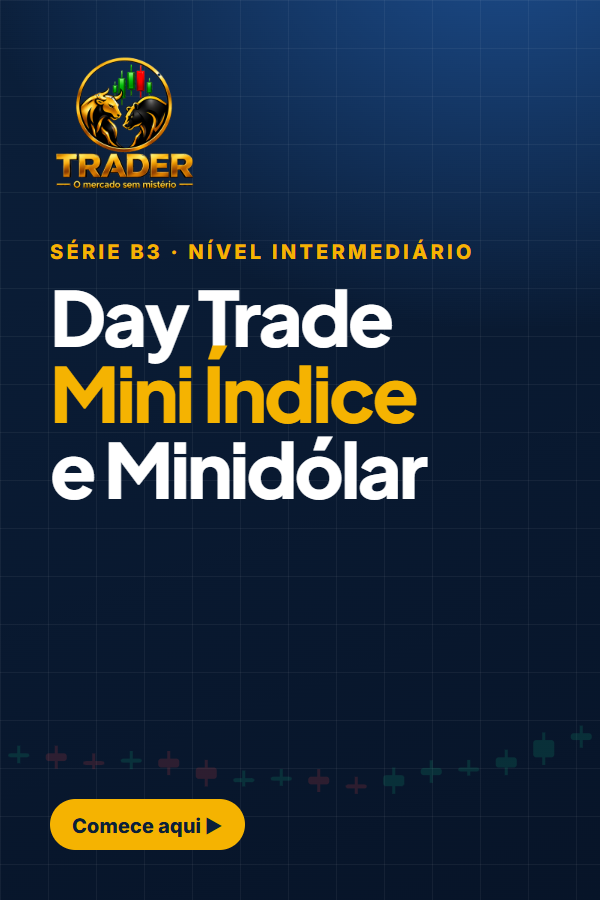
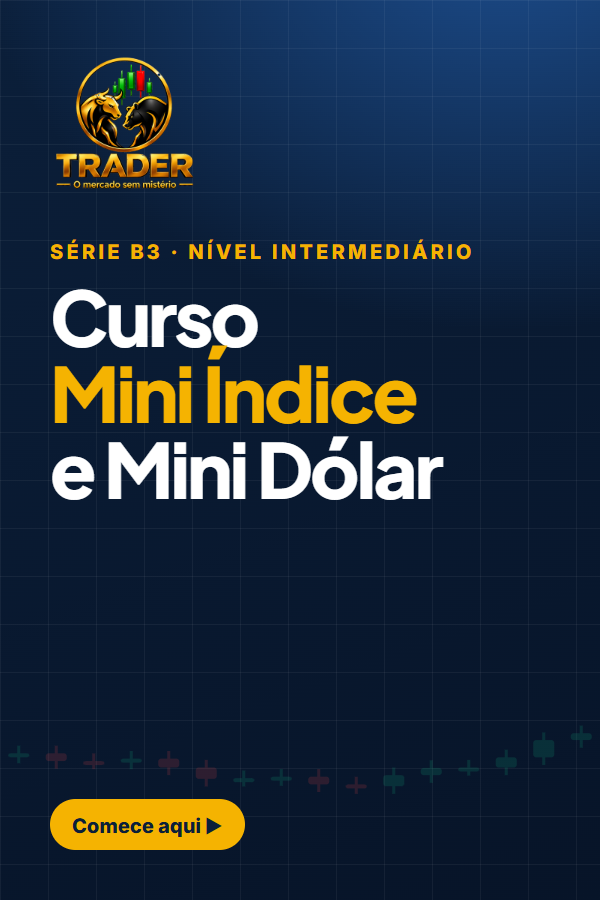
Mini Índice e Mini Dólar: página para a nova análise da Hotmart (sem link no site) e capas renomeadas

Changed region(s): [[0.09, 0.3111, 0.66, 0.4044], [0.42, 0.4667, 0.75, 0.56]]

diff --git a/curso-mini-indice-e-mini-dolar.html b/curso-mini-indice-e-mini-dolar.html
@@ -1,0 +1,196 @@
+<!doctype html>
+<html lang="pt-BR">
+<head>
+<meta charset="utf-8">
+<meta name="viewport" content="width=device-width, initial-scale=1">
+<title>Mini Índice e Mini Dólar | Curso educacional com simulador de treino</title>
+<meta name="description" content="Curso educacional sobre os contratos de mini índice e mini dólar da B3: como funcionam, margem, riscos, estratégias com stop e plano operacional. 56 aulas e simulador de treino.">
+<meta property="og:title" content="Mini Índice e Mini Dólar">
+<meta property="og:description" content="Curso educacional sobre os contratos de mini índice e mini dólar da B3: como funcionam, margem, riscos, estratégias com stop e plano operacional. 56 aulas e simulador de treino.">
+<meta property="og:image" content="https://mesquitaigorsaas.github.io/mercadosemmisterio/assets/img/produtos/day-trade-banner-1920x1080.png">
+<meta name="theme-color" content="#050e1f">
+<link rel="icon" href="assets/img/emblema-128.png">
+<link rel="preconnect" href="https://fonts.googleapis.com"><link rel="preconnect" href="https://fonts.gstatic.com" crossorigin>
+<link href="https://fonts.googleapis.com/css2?family=Plus+Jakarta+Sans:wght@600;700;800&family=Inter:wght@400;500;600;700;800&display=swap" rel="stylesheet">
+<link rel="stylesheet" href="assets/site.css?v=8">
+<!-- gerada por cursos-b3/publicacao/gerar-paginas-venda.js: edite lá e gere de novo -->
+<style>
+  .hero-curso { display: grid; grid-template-columns: 1.05fr 1fr; gap: 46px; align-items: center; }
+  @media (max-width: 960px) { .hero-curso { grid-template-columns: 1fr; } }
+  .tela-mock { position: relative; border-radius: 18px; padding: 10px; background: linear-gradient(160deg, #1b3460, #0b1730); border: 1px solid rgba(255,255,255,.12); box-shadow: 0 40px 90px rgba(0,0,0,.55), 0 0 0 1px rgba(245,179,1,.08); transform: perspective(1400px) rotateY(-7deg) rotateX(3deg); transition: transform .6s; }
+  .tela-mock:hover { transform: none; }
+  .tela-mock img { border-radius: 10px; width: 100%; height: auto; }
+  .tela-mock { margin-bottom: 26px; }
+  .tela-mock .pill { position: absolute; left: 50%; bottom: -22px; transform: translateX(-50%); width: max-content; max-width: calc(100% - 24px); text-align: center; color: #d1fae5; padding: 11px 18px; border-radius: 14px; background: #0b1f3a; border: 1px solid rgba(16,185,129,.4); font: 700 14px Inter; box-shadow: 0 16px 40px rgba(0,0,0,.4); }
+  .preco-hero { display: flex; align-items: baseline; gap: 14px; flex-wrap: wrap; margin: 6px 0 22px; }
+  .preco-hero s { color: var(--soft2); font-size: 20px; } .preco-hero b { font: 800 44px "Plus Jakarta Sans"; color: #fff; } .preco-hero span { color: var(--soft); }
+  .selos { display: flex; flex-wrap: wrap; gap: 8px 18px; margin-top: 22px; color: #cbd5e1; font: 600 14px Inter; }
+  .barra-num { display: grid; grid-template-columns: repeat(5, 1fr); gap: 1px; background: var(--line); border-radius: 18px; overflow: hidden; border: 1px solid var(--line); }
+  .barra-num div { background: var(--card); padding: 22px 14px; text-align: center; }
+  .barra-num b { display: block; font: 800 30px "Plus Jakarta Sans"; color: var(--gold); } .barra-num span { color: var(--soft); font-size: 14px; }
+  @media (max-width: 760px) { .barra-num { grid-template-columns: repeat(2, 1fr); } .barra-num div:last-child { grid-column: 1 / -1; } }
+  .dado { padding: 26px; } .dado b { display: block; font: 800 54px/1 "Plus Jakarta Sans"; color: var(--down); margin-bottom: 10px; } .dado p { margin: 0; color: #cbd5e1; } .dado small { display: block; color: var(--soft2); margin-top: 10px; font-size: 12.5px; }
+  .pilar { padding: 26px; } .pilar .ic { font-size: 30px; } .pilar h3 { font-size: 20px; margin: 10px 0 6px; } .pilar p { color: var(--soft); margin: 0; font-size: 15.5px; }
+  .nivel-bloco { margin-bottom: 26px; } .nivel-bloco > h3 { display: flex; align-items: center; gap: 10px; font-size: 22px; margin-bottom: 12px; }
+  .nivel-bloco > h3 i { width: 12px; height: 12px; border-radius: 50%; background: var(--c); }
+  details.mod { background: var(--card); border: 1px solid var(--line); border-radius: 14px; margin-bottom: 8px; }
+  details.mod summary { list-style: none; cursor: pointer; padding: 16px 18px; display: grid; grid-template-columns: 100px 1fr auto; gap: 12px; align-items: center; font: 700 16px Inter; }
+  details.mod summary::-webkit-details-marker { display: none; }
+  details.mod summary .n { white-space: nowrap; color: var(--gold); font: 800 13px Inter; letter-spacing: .1em; text-transform: uppercase; }
+  details.mod summary .q { color: var(--soft); font-size: 13.5px; font-weight: 600; }
+  details.mod[open] summary { border-bottom: 1px solid var(--line); }
+  details.mod ol { margin: 0; padding: 12px 18px 16px 18px; color: #cbd5e1; columns: 2; column-gap: 30px; } details.mod li { list-style: none; padding: 4px 0; break-inside: avoid; font-size: 15px; }
+  @media (max-width: 640px) { details.mod ol { columns: 1; } details.mod summary { grid-template-columns: 1fr auto; } details.mod summary .n { grid-column: 1 / -1; } }
+  .galeria { display: grid; grid-template-columns: repeat(3, 1fr); gap: 16px; }
+  .galeria figure { margin: 0; } .galeria img { border-radius: 14px; border: 1px solid var(--line); cursor: zoom-in; transition: transform .25s; } .galeria img:hover { transform: scale(1.02); }
+  .galeria figcaption { color: var(--soft); font-size: 14px; margin-top: 8px; }
+  @media (max-width: 860px) { .galeria { grid-template-columns: 1fr 1fr; } } @media (max-width: 560px) { .galeria { grid-template-columns: 1fr; } }
+  .lightbox { position: fixed; inset: 0; background: rgba(0,0,0,.9); display: none; place-items: center; z-index: 100; padding: 20px; cursor: zoom-out; } .lightbox.on { display: grid; } .lightbox img { max-height: 90vh; border-radius: 12px; }
+  .inclui { display: grid; grid-template-columns: repeat(2, 1fr); gap: 12px; } .inclui > div { display: flex; gap: 14px; padding: 16px; border-radius: 14px; background: var(--card); border: 1px solid var(--line); }
+  .inclui .ic { font-size: 26px; } .inclui b { display: block; } .inclui span { color: var(--soft); font-size: 14.5px; }
+  @media (max-width: 760px) { .inclui { grid-template-columns: 1fr; } }
+  .para li { list-style: none; padding: 10px 0 10px 34px; position: relative; border-bottom: 1px solid var(--line); color: #dbe4f0; } .para ul { padding: 0; margin: 10px 0 0; }
+  .para li::before { position: absolute; left: 0; top: 9px; font-size: 18px; } .para.sim li::before { content: "✅"; } .para.nao li::before { content: "⛔"; }
+  .instrutor { display: grid; grid-template-columns: 220px 1fr; gap: 34px; align-items: center; padding: 34px; }
+  .instrutor img { width: 200px; border-radius: 50%; border: 3px solid var(--gold); padding: 10px; background: #0b1f3a; }
+  @media (max-width: 760px) { .instrutor { grid-template-columns: 1fr; text-align: center; } .instrutor img { margin: 0 auto; } }
+  .oferta { max-width: 640px; margin: 0 auto; padding: 38px; text-align: center; border: 2px solid rgba(245,179,1,.5); border-radius: 26px; background: linear-gradient(180deg, #102a52, #0b1730); box-shadow: 0 30px 80px rgba(0,0,0,.45); }
+  .oferta .tag { display: inline-block; padding: 6px 14px; border-radius: 999px; background: rgba(245,179,1,.15); color: var(--gold); font: 800 13px Inter; letter-spacing: .08em; text-transform: uppercase; }
+  .oferta s { display: block; color: var(--soft2); font-size: 20px; margin-top: 18px; } .oferta .valor { font: 800 72px/1 "Plus Jakarta Sans"; margin: 6px 0; } .oferta .valor small { font-size: 26px; vertical-align: top; margin-right: 6px; }
+  .oferta ul { text-align: left; margin: 24px 0; padding: 0; } .oferta li { list-style: none; padding: 7px 0 7px 30px; position: relative; color: #dbe4f0; } .oferta li::before { content: "✓"; position: absolute; left: 0; color: var(--up); font-weight: 800; }
+  .garantia { display: flex; gap: 14px; align-items: center; text-align: left; margin-top: 22px; padding: 16px; border-radius: 14px; background: rgba(16,185,129,.08); border: 1px solid rgba(16,185,129,.3); font-size: 14.5px; color: #cbd5e1; } .garantia b { color: #6ee7b7; }
+  @media (max-width: 640px) { .oferta { padding: 26px 18px; border-radius: 20px; } .oferta h2 { font-size: 24px !important; } .oferta .valor { font-size: 58px; } .garantia { padding: 14px; gap: 12px; } .garantia span { font-size: 26px !important; } }
+  details.faq { border-bottom: 1px solid var(--line); } details.faq summary { cursor: pointer; padding: 18px 0; font: 700 17px Inter; list-style: none; display: flex; justify-content: space-between; gap: 14px; } details.faq summary::after { content: "+"; color: var(--gold); font-size: 22px; } details.faq[open] summary::after { content: "−"; } details.faq p { margin: 0 0 18px; color: var(--soft); }
+  .cta-fixo { position: fixed; left: 0; right: 0; bottom: 0; z-index: 60; background: rgba(5,14,31,.95); border-top: 1px solid var(--line); padding: 10px 16px; display: none; align-items: center; justify-content: space-between; gap: 10px; backdrop-filter: blur(10px); }
+  .cta-fixo b { font: 800 18px "Plus Jakarta Sans"; } .cta-fixo .btn { padding: 12px 18px; }
+  @media (max-width: 760px) { .cta-fixo.on { display: flex; } body { padding-bottom: 70px; } }
+</style>
+</head>
+<body>
+<header class="topo"><div class="wrap">
+  <a class="marca" href="./"><img src="assets/img/emblema-160.png" alt=""><span>Mercado Sem Mistério<small>o mercado, explicado</small></span></a>
+  <nav class="menu"><a href="#conteudo">Conteúdo</a><a href="#instrutor">Instrutor</a><a href="#oferta">Inscrição</a><a href="#faq">Dúvidas</a><a href="./">Mercado ao vivo</a></nav>
+  <a class="btn btn-ouro" href="https://pay.hotmart.com/O108276123F" target="_blank" rel="noopener" style="padding:12px 18px;font-size:15px">Quero me inscrever</a>
+  <a class="insta" href="https://www.instagram.com/traderomercadosemmisterio" target="_blank" rel="noopener" aria-label="Instagram do Mercado Sem Mistério" title="Siga no Instagram"><svg viewBox="0 0 48 48" width="40" height="40" aria-hidden="true"><defs><radialGradient id="ig-grad" cx="0.3" cy="1.07" r="1.3"><stop offset="0" stop-color="#fdf497"/><stop offset=".08" stop-color="#fdf497"/><stop offset=".45" stop-color="#fd5949"/><stop offset=".6" stop-color="#d6249f"/><stop offset=".9" stop-color="#285AEB"/></radialGradient></defs><rect width="48" height="48" rx="12" fill="url(#ig-grad)"/><rect x="11" y="11" width="26" height="26" rx="8" fill="none" stroke="#fff" stroke-width="3"/><circle cx="24" cy="24" r="6.3" fill="none" stroke="#fff" stroke-width="3"/><circle cx="31.6" cy="16.4" r="1.9" fill="#fff"/></svg></a><button class="burger" aria-label="Menu">☰</button>
+</div></header>
+
+<section class="hero" style="padding-bottom:70px"><canvas data-velas aria-hidden="true"></canvas><span class="brilho" style="background:#f5b301;top:-140px;left:30%;opacity:.16"></span><div class="wrap hero-curso">
+  <div>
+    <span class="eyebrow" style="display:block">Curso Mini Índice e Mini Dólar · intermediário</span>
+    <h1 style="font-size:clamp(34px,5.2vw,58px);margin-top:14px">Mini índice e mini dólar com <em>método</em> — e não no impulso.</h1>
+    <p class="lead">56 aulas animadas e interativas e um simulador para treinar sem dinheiro real. Entenda o que você está operando, quanto pode perder, quando entrar, quando não entrar e como sair.</p>
+    <div class="preco-hero"><b>R$ 97</b><span>à vista ou em até 12x de R$ 10,03 no cartão</span></div>
+    <div class="acoes"><a class="btn btn-ouro btn-g" href="https://pay.hotmart.com/O108276123F" target="_blank" rel="noopener">Quero começar agora</a><a class="btn btn-sec btn-g" href="#conteudo">Ver o conteúdo</a></div>
+    <div class="selos"><span>🛡 7 dias de garantia</span><span>🎓 Certificado</span><span>♾ Acesso vitalício</span><span>📱 No computador e no celular</span></div>
+  </div>
+  <div class="tela-mock surge"><img src="assets/img/produtos/day-trade-banner-1920x1080.png" alt="Mini Índice e Mini Dólar" width="1920" height="1080"><div class="pill">✓ Simulador de treino com pregões ilustrativos</div></div>
+</div></section>
+
+<section style="padding:0 0 70px"><div class="wrap">
+  <div class="barra-num surge"><div><b>56</b><span>aulas</span></div><div><b>10</b><span>módulos</span></div><div><b>4</b><span>estratégias com stop e alvo</span></div><div><b>1</b><span>simulador de treino</span></div><div><b>7 dias</b><span>de garantia</span></div></div>
+</div></section>
+
+<section style="background:var(--bg2)"><div class="wrap">
+  <div class="sec-titulo surge"><span class="eyebrow">A verdade que vem primeiro</span><h2>Os contratos mais negociados também são os que mais quebram contas.</h2><p>Por alavancagem, por falta de stop e por decisões no calor do pregão. Por isso o curso começa pelo risco — e mostra também quando não operar.</p></div>
+  <div class="grade3">
+    <div class="card dado surge"><b>91%</b><p>de quem insistiu em operar mini índice dentro do mesmo dia perdeu dinheiro.</p><small>Estudo da FGV, 2019</small></div>
+    <div class="card dado surge"><b>R$ 155</b><p>de margem mínima no WIN (R$ 140 no WDO) desde 02/02/2026: dá para perder mais do que se tem.</p><small>B3, 2026 · Módulo 2</small></div>
+    <div class="card dado surge"><b style="color:var(--gold)">1 plano</b><p>de uma página, escrito por você, com stop do dia, tamanho da mão e checklist do pregão.</p><small>Módulo 9 · Plano operacional</small></div>
+  </div>
+</div></section>
+
+<section><div class="wrap">
+  <div class="sec-titulo surge"><span class="eyebrow">O que você vai aprender</span><h2>Do conceito à prática, sempre com o risco na conta.</h2></div>
+  <div class="grade4">
+    <div class="card pilar surge"><span class="ic">📑</span><h3>Conhecer o contrato</h3><p>Ficha técnica do WIN e do WDO, vencimentos de 2026, rolagem e ajuste diário.</p></div>
+    <div class="card pilar surge"><span class="ic">📈</span><h3>Ler o pregão</h3><p>Livro de ofertas, Times &amp; Trades, agressão, VWAP e agenda econômica.</p></div>
+    <div class="card pilar surge"><span class="ic">🎯</span><h3>Entrar e sair com regra</h3><p>4 estratégias completas, stop técnico, alvo realista, breakeven e OCO.</p></div>
+    <div class="card pilar surge"><span class="ic">🧠</span><h3>Controlar risco e cabeça</h3><p>Quantos contratos, stop do dia, sequência de perdas, FOMO e revenge trade.</p></div>
+  </div>
+</div></section>
+
+<section id="conteudo" style="background:var(--bg2)"><div class="wrap">
+  <div class="sec-titulo surge"><span class="eyebrow">Conteúdo completo</span><h2>10 módulos, 56 aulas</h2><p>Clique em cada módulo para ver as aulas. No fim: prova final e certificado.</p></div>
+  <div>
+    <details class="mod surge"><summary><span class="n">Módulo 0</span><span>Boas-vindas e a verdade sobre o day trade</span><span class="q">4 aulas</span></summary><ol><li><b class="ouro">0.1</b> Boas-vindas e mapa do curso</li><li><b class="ouro">0.2</b> A verdade sobre o day trade</li><li><b class="ouro">0.3</b> Alavancagem: o aviso que vem primeiro</li><li><b class="ouro">0.4</b> Pré-requisitos e ambiente</li></ol></details>
+    <details class="mod surge"><summary><span class="n">Módulo 1</span><span>Os contratos: mini índice e minidólar</span><span class="q">7 aulas</span></summary><ol><li><b class="ouro">1.1</b> O que é um contrato futuro</li><li><b class="ouro">1.2</b> Mini índice (WIN): a ficha técnica</li><li><b class="ouro">1.3</b> Minidólar (WDO): a ficha técnica</li><li><b class="ouro">1.4</b> Códigos, vencimentos e rolagem</li><li><b class="ouro">1.5</b> Ajuste diário</li><li><b class="ouro">1.6</b> Horários, leilão e circuit breaker</li><li><b class="ouro">1.7</b> Custos e impostos do day trade</li></ol></details>
+    <details class="mod surge"><summary><span class="n">Módulo 2</span><span>Margem e alavancagem</span><span class="q">5 aulas</span></summary><ol><li><b class="ouro">2.1</b> O que é margem de garantia</li><li><b class="ouro">2.2</b> Alavancagem em números</li><li><b class="ouro">2.3</b> Margem de day trade × de posição</li><li><b class="ouro">2.4</b> Zeragem compulsória e chamada de margem</li><li><b class="ouro">2.5</b> Quando se perde mais do que se tem</li></ol></details>
+    <details class="mod surge"><summary><span class="n">Módulo 3</span><span>Leitura do mercado em tempo real</span><span class="q">7 aulas</span></summary><ol><li><b class="ouro">3.1</b> O que move o mini índice</li><li><b class="ouro">3.2</b> O que move o minidólar</li><li><b class="ouro">3.3</b> A agenda econômica</li><li><b class="ouro">3.4</b> A abertura e o gap</li><li><b class="ouro">3.5</b> O livro de ofertas nos futuros</li><li><b class="ouro">3.6</b> Times &amp;amp; Trades e agressão</li><li><b class="ouro">3.7</b> Tempos gráficos e a VWAP</li></ol></details>
+    <details class="mod surge"><summary><span class="n">Módulo 4</span><span>Estratégias de entrada e saída</span><span class="q">7 aulas</span></summary><ol><li><b class="ouro">4.1</b> Anatomia de uma estratégia</li><li><b class="ouro">4.2</b> Rompimento da faixa de abertura</li><li><b class="ouro">4.3</b> Pullback na VWAP</li><li><b class="ouro">4.4</b> Reversão nas regiões do dia anterior</li><li><b class="ouro">4.5</b> A tendência do dia</li><li><b class="ouro">4.6</b> Quando não operar</li><li><b class="ouro">4.7</b> Saídas: alvo, parcial e stop móvel</li></ol></details>
+    <details class="mod surge"><summary><span class="n">Módulo 5</span><span>Stop loss e stop gain</span><span class="q">6 aulas</span></summary><ol><li><b class="ouro">5.1</b> Stop técnico × stop financeiro</li><li><b class="ouro">5.2</b> Onde colocar o stop no WIN e no WDO</li><li><b class="ouro">5.3</b> Stop gain e alvos realistas</li><li><b class="ouro">5.4</b> Breakeven e stop móvel</li><li><b class="ouro">5.5</b> A boleta dos futuros e a ordem OCO</li><li><b class="ouro">5.6</b> Slippage, notícia e gap</li></ol></details>
+    <details class="mod surge"><summary><span class="n">Módulo 6</span><span>Gestão de risco no day trade</span><span class="q">5 aulas</span></summary><ol><li><b class="ouro">6.1</b> Risco por operação em pontos e reais</li><li><b class="ouro">6.2</b> Quantos contratos operar</li><li><b class="ouro">6.3</b> Stop do dia e da semana</li><li><b class="ouro">6.4</b> Sequência de perdas</li><li><b class="ouro">6.5</b> Expectativa: acerto × payoff</li></ol></details>
+    <details class="mod surge"><summary><span class="n">Módulo 7</span><span>Psicologia do day trader</span><span class="q">5 aulas</span></summary><ol><li><b class="ouro">7.1</b> Por que o day trade mexe com a cabeça</li><li><b class="ouro">7.2</b> Overtrading e revenge trade</li><li><b class="ouro">7.3</b> FOMO e medo de executar</li><li><b class="ouro">7.4</b> Rotina, pausa e saúde</li><li><b class="ouro">7.5</b> Teste: o seu ponto fraco</li></ol></details>
+    <details class="mod surge"><summary><span class="n">Módulo 8</span><span>Simulação de operações</span><span class="q">5 aulas</span></summary><ol><li><b class="ouro">8.1</b> Como usar o simulador</li><li><b class="ouro">8.2</b> Operação comentada: rompimento no WIN</li><li><b class="ouro">8.3</b> Operação comentada: o stop no WIN</li><li><b class="ouro">8.4</b> Operação comentada: pullback no WDO</li><li><b class="ouro">8.5</b> Desafio: 10 decisões</li></ol></details>
+    <details class="mod surge"><summary><span class="n">Módulo 9</span><span>Plano operacional e encerramento</span><span class="q">5 aulas</span></summary><ol><li><b class="ouro">9.1</b> O plano operacional de uma página</li><li><b class="ouro">9.2</b> O checklist do pregão</li><li><b class="ouro">9.3</b> Diário e métricas</li><li><b class="ouro">9.4</b> Do simulador ao real</li><li><b class="ouro">9.5</b> Encerramento</li></ol></details>
+  </div>
+</div></section>
+
+<section><div class="wrap">
+  <div class="sec-titulo surge"><span class="eyebrow">Tudo o que você recebe</span><h2>Aulas interativas, ferramentas e certificado</h2><p>Cada aula é uma sequência de telas animadas que avançam a cada clique, com o texto da explicação e testes no meio do caminho.</p></div>
+  <div class="inclui">
+    <div class="surge"><span class="ic">🎬</span><div><b>56 aulas animadas</b><span>Dos contratos ao plano operacional, em 10 módulos.</span></div></div>
+    <div class="surge"><span class="ic">🕹</span><div><b>Simulador de treino</b><span>Pregões ilustrativos de WIN e WDO, candle a candle, com stop, alvo e resultado em R.</span></div></div>
+    <div class="surge"><span class="ic">🧮</span><div><b>Calculadora de contratos</b><span>Contratos pelo risco, resultado em reais e imposto do mês.</span></div></div>
+    <div class="surge"><span class="ic">📚</span><div><b>Livro de ofertas animado</b><span>Times &amp; Trades, testes rápidos e jogos de decisão.</span></div></div>
+    <div class="surge"><span class="ic">📝</span><div><b>Plano operacional</b><span>O seu plano de uma página e o checklist do pregão.</span></div></div>
+    <div class="surge"><span class="ic">🎓</span><div><b>Prova final e certificado</b><span>25 questões; certificado com 18 acertos.</span></div></div>
+  </div>
+</div></section>
+
+<section style="background:var(--bg2)"><div class="wrap grade2">
+  <div class="card para sim surge" style="padding:28px"><h3 style="font-size:22px">Este curso é para você se…</h3><ul><li>Já sabe o básico da Bolsa (candles, ordens e stop).</li><li>Quer entender o mini índice e o mini dólar com método.</li><li>Quer saber, antes de arriscar, se esse tipo de operação é para você.</li><li>Quer treinar no simulador antes da conta real.</li></ul></div>
+  <div class="card para nao surge" style="padding:28px"><h3 style="font-size:22px">Não é para você se…</h3><ul><li>Procura sala de sinais, call ou ganho rápido.</li><li>Não aceita usar stop.</li><li>Pretende operar com dinheiro que faz falta nas contas.</li><li>Ainda não sabe o que é um candle (comece pelo Bolsa de Valores do Zero).</li></ul></div>
+</div></section>
+
+<section id="instrutor"><div class="wrap">
+  <div class="card instrutor surge"><img src="assets/img/logo-800.png" alt="Trader — O Mercado Sem Mistério">
+    <div><span class="eyebrow">Quem conduz o curso</span><h2 style="font-size:clamp(28px,4vw,40px);margin:8px 0 14px">Igor Mesquita</h2>
+      <p style="color:#cbd5e1;font-size:17.5px;margin:0">Tenho 45 anos e acompanho e estudo o mercado financeiro todos os dias. Há 8 anos opero day trade, no Brasil e no exterior. Nesse tempo, aprendi na prática que o mercado não perdoa improviso: o que sustenta um trader é método, gestão de risco e disciplina — e não promessa de ganho rápido. É isso que eu ensino aqui, do jeito que eu gostaria de ter aprendido quando comecei.</p></div></div>
+</div></section>
+
+<section id="oferta" style="background:var(--bg2)"><div class="wrap">
+  <div class="oferta surge">
+    <span class="tag">Inscrições abertas</span>
+    <h2 style="font-size:30px;margin-top:16px">Mini Índice e Mini Dólar</h2>
+    <div class="valor" style="margin-top:18px">R$ 97</div>
+    <p class="soft" style="margin:0">à vista ou em até 12x de R$ 10,03 no cartão</p>
+    <ul><li>56 aulas em 10 módulos, dos contratos ao plano operacional</li><li>Simulador de treino e calculadora de contratos</li><li>4 estratégias completas, sempre com stop e alvo</li><li>Prova final e certificado de conclusão</li><li>Acesso vitalício, no computador e no celular</li></ul>
+    <a class="btn btn-ouro btn-g" href="https://pay.hotmart.com/O108276123F" target="_blank" rel="noopener" style="width:100%">Quero me inscrever</a>
+    <div class="garantia"><span style="font-size:34px">🛡</span><div><b>Garantia de 7 dias.</b> Assista às aulas e use as ferramentas. Se não for o que você esperava, peça o reembolso pela Hotmart em até 7 dias, sem precisar explicar.</div></div>
+  </div>
+</div></section>
+
+<section id="faq"><div class="wrap" style="max-width:820px">
+  <div class="sec-titulo surge centro" style="text-align:center"><span class="eyebrow">Dúvidas frequentes</span><h2>Perguntas que você pode estar se fazendo</h2></div>
+  <div class="surge">
+    <details class="faq"><summary>Preciso ter feito o curso de Bolsa do Zero?</summary><p>É recomendado. A aula 0.4 tem um checklist que diz exatamente o que rever antes de seguir.</p></details>
+    <details class="faq"><summary>O simulador usa dinheiro real?</summary><p>Não. São pregões ilustrativos, para treino.</p></details>
+    <details class="faq"><summary>Vocês mandam sinais?</summary><p>Não. O curso ensina a montar e seguir o seu próprio plano operacional.</p></details>
+    <details class="faq"><summary>Vou ganhar dinheiro com o curso?</summary><p>Não prometemos ganho. Contratos futuros são alavancados e podem gerar perdas maiores que o capital depositado. O curso ensina método e controle de risco.</p></details>
+    <details class="faq"><summary>Por quanto tempo tenho acesso?</summary><p>O acesso é vitalício.</p></details>
+    <details class="faq"><summary>Como assisto às aulas?</summary><p>Depois da compra, você entra na Área do aluno do site com o e-mail da compra e o seu CPF. As aulas e o simulador funcionam no computador e no celular.</p></details>
+    <details class="faq"><summary>Tem certificado?</summary><p>Sim, depois da aprovação na prova final (18 acertos de 25).</p></details>
+    <details class="faq"><summary>E se eu não gostar?</summary><p>Você tem 7 dias de garantia, com devolução integral, pedida pela Hotmart.</p></details>
+  </div>
+  <p class="soft" style="font-size:14px;margin-top:26px"><b class="ouro">Aviso de risco.</b> Curso de finalidade exclusivamente educacional. Não é recomendação de investimento. Operações com contratos futuros são alavancadas e podem gerar perdas maiores que o capital depositado. Resultados passados não garantem resultados futuros.</p>
+  <p style="text-align:center;margin-top:28px"><a class="btn btn-ouro btn-g" href="https://pay.hotmart.com/O108276123F" target="_blank" rel="noopener">Quero começar agora</a></p>
+</div></section>
+
+<footer><div class="wrap">
+  <div class="cols">
+    <div><a class="marca" href="./" style="margin-bottom:10px"><img src="assets/img/emblema-160.png" alt=""><span>Mercado Sem Mistério</span></a><p>Conteúdo educacional sobre o mercado financeiro, por Igor Mesquita.</p></div>
+    <div><h4>Site</h4><a href="./">Mercado ao vivo</a><a href="./#noticias">Notícias</a><a href="ferramentas/calculadora.html">Calculadora</a><a href="curso.html">Forex do Zero</a><a href="curso-bolsa.html">Bolsa de Valores do Zero</a><a href="area/">Área do aluno</a></div>
+    <div><h4>Legal</h4><a href="termos.html">Termos de uso e aviso de risco</a><a href="privacidade.html">Política de privacidade</a></div>
+  </div>
+  <div class="aviso-risco"><b class="ouro">Aviso de risco.</b> Operar no mercado financeiro, especialmente com alavancagem, envolve risco alto de perda, inclusive de todo o capital aplicado. Este curso é educacional: não é recomendação de investimento, não oferece sinais de compra ou venda e não promete resultado. Os exemplos com operações e gráficos são ilustrativos ou reconstruções didáticas, sempre indicadas como tal. Resultados passados não garantem resultados futuros.</div>
+  <div class="rodape-fim"><p>© 2026 Mercado Sem Mistério · <a href="termos.html">Termos</a> · <a href="privacidade.html">Privacidade</a></p><a class="rodape-insta" href="https://www.instagram.com/traderomercadosemmisterio" target="_blank" rel="noopener"><svg viewBox="0 0 48 48" width="30" height="30" aria-hidden="true"><defs><radialGradient id="ig-grad-r" cx="0.3" cy="1.07" r="1.3"><stop offset="0" stop-color="#fdf497"/><stop offset=".08" stop-color="#fdf497"/><stop offset=".45" stop-color="#fd5949"/><stop offset=".6" stop-color="#d6249f"/><stop offset=".9" stop-color="#285AEB"/></radialGradient></defs><rect width="48" height="48" rx="12" fill="url(#ig-grad-r)"/><rect x="11" y="11" width="26" height="26" rx="8" fill="none" stroke="#fff" stroke-width="3"/><circle cx="24" cy="24" r="6.3" fill="none" stroke="#fff" stroke-width="3"/><circle cx="31.6" cy="16.4" r="1.9" fill="#fff"/></svg><span>@traderomercadosemmisterio</span></a><p class="credito">Desenvolvido por <a href="https://mesquitasaas.online/" target="_blank" rel="noopener"><b>Mesquita SaaS</b></a></p></div>
+</div></footer>
+<div class="cta-fixo" id="ctaFixo"><div><b>R$ 97</b> <span class="soft" style="font-size:13px">acesso vitalício</span></div><a class="btn btn-ouro" href="https://pay.hotmart.com/O108276123F" target="_blank" rel="noopener">Quero me inscrever</a></div>
+
+<script>
+addEventListener("scroll", () => document.getElementById("ctaFixo").classList.toggle("on", scrollY > 700 && document.getElementById("oferta").getBoundingClientRect().top > innerHeight), { passive: true });
+</script>
+<script src="assets/site.js?v=10"></script>
+<script src="assets/anim.js?v=8"></script>
+</body>
+</html>
